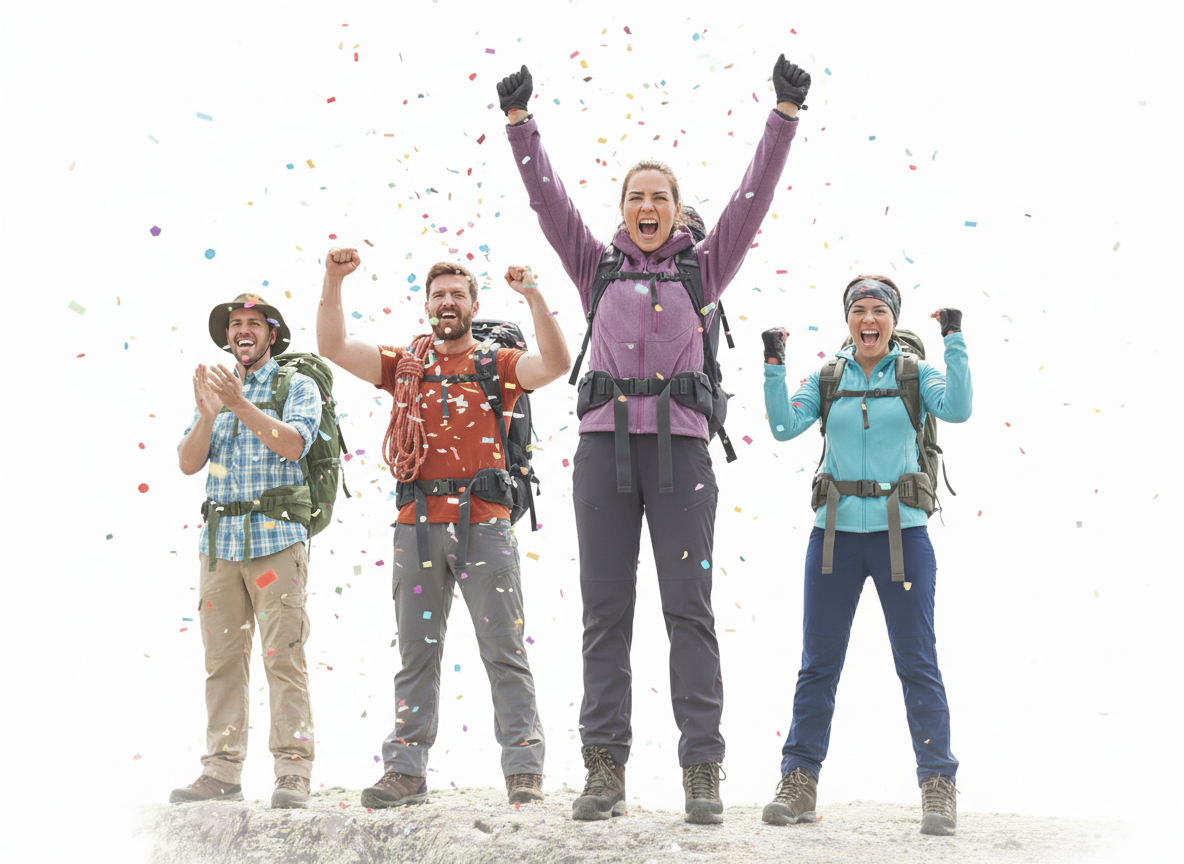
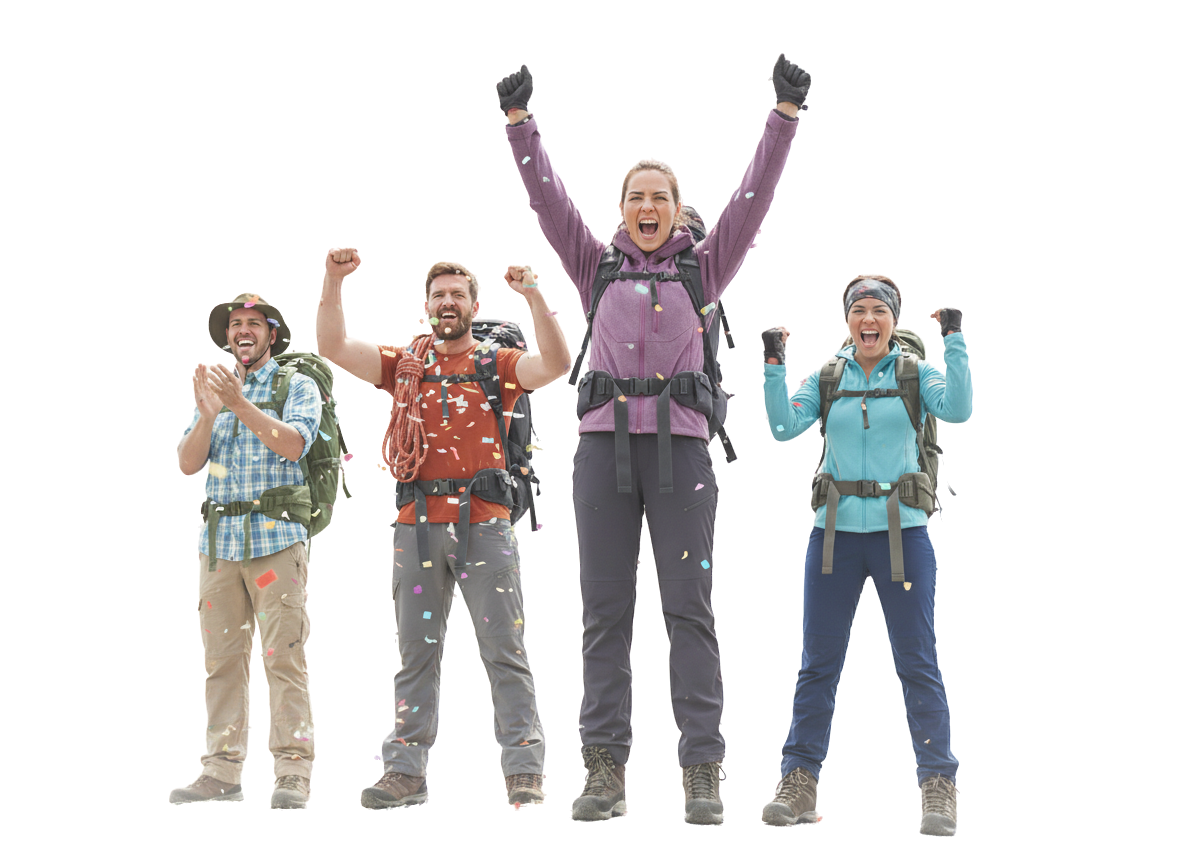
feat: added front 2

diff --git a/home/templates/home/index.html b/home/templates/home/index.html
@@ -8,19 +8,19 @@
 {% block content %}
 <div class="min-h-screen">
   <!-- Hero Section with Background Image -->
-  <div class="relative">
+  <div class="relative min-h-screen">
     <!-- Background Image -->
-    <div class="absolute">
+    <div class="absolute inset-0 w-full h-full overflow-hidden">
       <img src="{% static 'images/bg.jpg' %}" 
            alt="Background" 
-           class="w-full h-full">
+           class="w-full h-full object-cover">
       <!-- Gradient overlay to blend with stats section -->
     </div>
     
-    <div class="max-w-7xl mx-auto px-4 sm:px-6 lg:px-8 relative z-10">
+    <div class="max-w-7xl mx-auto px-4 sm:px-6 lg:px-8 relative z-30 min-h-screen flex items-center py-20">
       
       <!-- Split Layout: Left and Right Text with Center Image -->
-      <div class="grid grid-cols-1 lg:grid-cols-3 gap-8 lg:gap-12 items-center relative">
+      <div class="grid grid-cols-1 lg:grid-cols-3 gap-8 lg:gap-12 items-center relative w-full">
         
         <!-- Left Content -->
         <div class="space-y-6 text-left lg:text-right relative z-20">
@@ -31,8 +31,8 @@
           </div>
           
           <!-- Main Heading Part 1 -->
-          <h1 class="text-5xl md:text-6xl lg:text-7xl font-bold text-[#2D5016] leading-tight drop-shadow-lg">
-            Menjejak<br>Alam
+          <h1 class="text-5xl md:text-6xl lg:text-7xl font-bold leading-tight drop-shadow-lg">
+            <span class="text-[#4CAF50]">Menjejak<br>Alam</span>
           </h1>
           
           <!-- Description Left -->
@@ -43,7 +43,7 @@
         
         <!-- Center Image - 2x Larger with transparent white removal -->
         <div class="relative group lg:col-span-1 flex justify-center items-center">
-          <div class="relative w-full max-w-3xl aspect-[3/4] lg:scale-[2.5]">
+          <div class="relative w-full max-w-3xl aspect-[3/4] lg:scale-[4] lg:translate-y-40">
             <!-- Image container with hover effect -->
             <div class="relative w-full h-full rounded-3xl overflow-hidden" style="isolation: isolate;">
               <!-- Front Image 1 (default) - remove white background with CSS -->
@@ -54,18 +54,22 @@
               <!-- Front Image 2 (on hover) - remove white background with CSS -->
               <img src="{% static 'images/front-2.png' %}" 
                    alt="Mountain Adventure Team"
-                   class="absolute inset-0 w-full h-full object-contain transition-opacity duration-700 opacity-0 group-hover:opacity-100 drop-shadow-2xl remove-white-bg">
+                   class="absolute inset-0 w-full h-full object-contain transition-opacity duration-700 opacity-0 group-hover:opacity-100">
             </div>
             
           </div>
         </div>
+         
 
               
         <!-- Right Content -->
         <div class="space-y-6 text-left relative z-20">
           <!-- Main Heading Part 2 -->
+           <img src="{% static 'images/front-2.png' %}"
+                   alt="Mountain Adventure Team"
+                   class="absolute inset-0 w-full h-full object-contain transition-opacity duration-700 opacity-0 group-hover:opacity-100">
           <h1 class="text-5xl md:text-6xl lg:text-7xl font-bold leading-tight drop-shadow-lg">
-            <span class="text-[#8B4513]">Menyatu<br>dengan<br>Ketinggian.</span>
+            <span class="text-[#D2691E]">sda<br>dengan<br>Ketinggian.</span>
           </h1>
           
           <!-- Description Right -->
@@ -88,7 +92,7 @@
   
   <!-- Stats Section (starts where bg.jpg ends) -->
   <div class="bg-gradient-to-r from-[#2D5016] to-[#3d6b1f] py-16 relative z-30 -mt-20">
-    <div class="max-w-7xl mx-auto px-4 sm:px-6 lg:px-8">
+    <div class="max-w-5xl mx-auto px-4 sm:px-6 lg:px-8">
       <div class="grid grid-cols-1 md:grid-cols-3 gap-8 text-center">
         
         <!-- Stat 1 -->
@@ -199,16 +203,6 @@
 
 <style>
   /* Remove white background from PNG images */
-  .remove-white-bg {
-    background-blend-mode: multiply;
-    mix-blend-mode: multiply;
-  }
-  
-  /* Alternative approach - you can try this if the above doesn't work */
-  @supports (backdrop-filter: blur(1px)) {
-    .remove-white-bg {
-      filter: brightness(1.1) contrast(1.1);
-    }
-  }
+ 
 </style>
 {% endblock %}

diff --git a/templates/base.html b/templates/base.html
@@ -24,7 +24,7 @@
     {% include 'components/navbar.html' %}
 
     <!-- Page content -->
-    <main class="pt-32 px-6">
+    <main class="">
         {% block content %}
         {% endblock %}
     </main>
